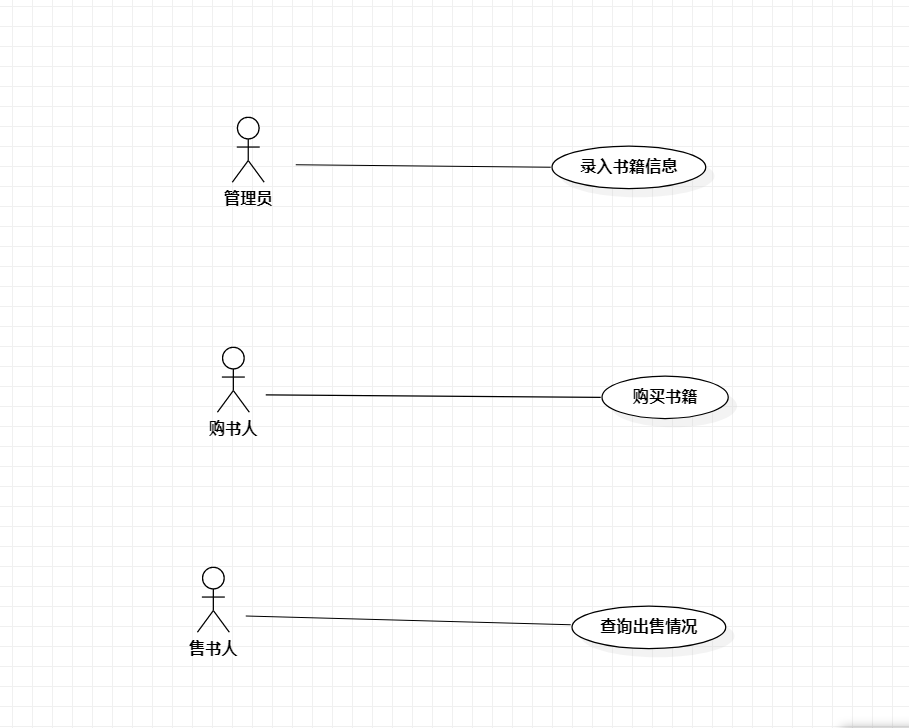
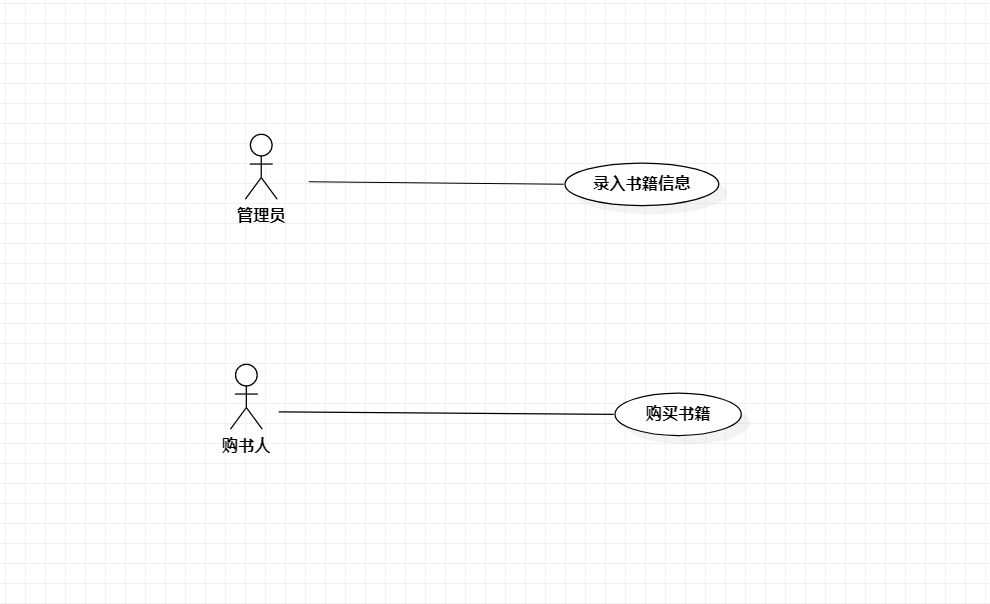
删除查询

diff --git a/students/1714080902113/lab2.md b/students/1714080902113/lab2.md
@@ -23,12 +23,10 @@
 1. 确定二手书籍交易系统功能并描述
    - 录入书籍信息：管理员从售书人中获取书籍，成功登录后，点击“录入书籍信息”按钮，将“出售人账号”“出售人姓名”，“出售价格”，“ISDN码”，“作者”，“出版社”信息分别填入相应的文本框中，点击“确定”按钮进行上传，管理员保留书籍。
    - 购买书籍：购书人在登录成功后，直接进入系统主页面，主页面展示出售的书籍，确认要购买的书籍点击“购买”按钮，进入付款页面，点击“确认付款”，付款成功后显示订单码，购书人姓名和出售人姓名，并显示“截图保存”的文字，通过截图向管理员取书。
-   - 查询出售情况：售书人登录成功后，点击个人页面，点击“我出售的书籍”，显示我出售的书籍信息以及是否已被购买。
 2. 确定使用者
    - 管理员
    - 购书人
-   - 售书人
-3. 创建usecase（录入书籍信息，购买书籍，查询出售情况）分别于Actor（管理员，购书人，售书人）连接
+3. 创建usecase（录入书籍信息，购买书籍）分别于Actor（管理员，购书人）连接
 4. 导出用例图。
 
 
@@ -77,18 +75,3 @@
      | 扩展流程 | 1.1 系统当前无任何可销售书籍  | *用例执行失败*       |
      | ~        | 3.1 购书人点击“取消付款”按钮，返回主界面  |
      | ~        | 3.2 书籍已经被购买，显示“书籍已被购买”提示框，返回主界面  |
-
-
-
-3. 表3：查询出售情况用例规约
-
-   + | 用例编号 | UC03                                                  | 备注                 |
-     | -------- | :---------------------------------------------------- | -------------------- |
-     | 用例名称 | 查询出售情况                                                  |                      |
-     | 前置条件 | 售书人登录系统                                    | *可选*               |
-     | 后置条件 |                                                       | *可选*               |
-     | 基本流程 | 1. 登录成功后，在主界面点击“个人中心”按钮                        | *用例执行成功的步骤* |
-     | ~        | 2. 在个人中心点击“我的出售书籍”按钮          |     
-     | ~        | 3. 系统检查该账号下的所有出售书籍           | 
-     | ~        | 4. 系统显示我的出售书籍页面，显示所有在出售的书籍            | 
-     | 扩展流程 |      2.1 当前账号下无出售书籍，显示“您未出售任何书籍”的文本框，返回主界面             | *用例执行失败*       |
